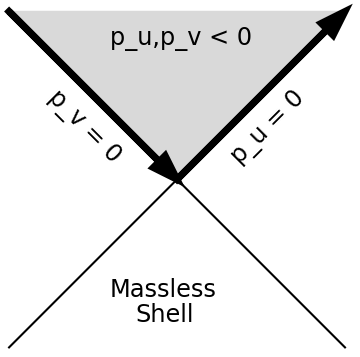
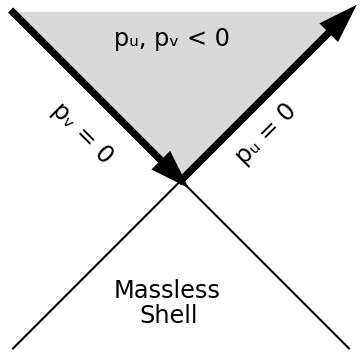
Added massless shell figure

diff --git a/thrust.tex b/thrust.tex
@@ -140,7 +140,7 @@ This leads to an inhomogenous Klein-Gordon equation
 \]
 \cite{beisert}. It is usually assumed that the source will only be active for some finite amount of time.  We delay ignore this issue and instead go after the general asymptotic form of our solution in Fourier space.
 
-We want to integrate $\rho$ on shell in momentum space, which for a massless source is the positive time part of the light cone.  The two positive time horizons are given by $p_u < 0$ and $p_v < 0$, see Figure \ref{masslessshell}.  Proceeding to take the Fourier transform of the function $f(u)$\footnote{WLOG since $g(v)$ is of the same form.}, $p_u$ drops to just $p$ for the time being to increase legibility.  We will continue to assume that $w_k$ and $a$ are positive. Let
+We want to integrate $\rho$ on shell in momentum space, which for a massless source is the positive time part of the light cone.  The two positive time horizons border $p_u <= 0$ and $p_v <= 0$, see Figure \ref{masslessshell}.  Proceeding to take the Fourier transform of the function $f(u)$\footnote{WLOG since $g(v)$ is of the same form.}, $p_u$ drops to just $p$ for the time being to increase legibility.  We will continue to assume that $w_k$ and $a$ are positive. Let
 \[
   A = e^{-i p u} (au)^\frac{i\omega_k}{a} du
 \]

diff --git a/plots.py b/plots.py
@@ -1,6 +1,10 @@
 import pylab
 pylab.axes().set_aspect('equal')
 
+sub_u = 'ᵤ'
+sub_v = 'ᵥ' 
+
+
 # Momentum space
 pylab.fill([0,1,-1],[0,1,1],color = (0.85,0.85,0.85))
 pylab.plot([-1,1],[-1,1],color = 'black')
@@ -9,6 +13,6 @@ pylab.arrow(-1,1,1,-1,color = 'black', linewidth = 5, head_width = 0.1,length_in
 pylab.arrow(0,0,1,1,color = 'black', linewidth = 5, head_width = 0.1,length_includes_head = True)
 pylab.text(-0.4,-0.7,"Massless",fontsize = "xx-large")
 pylab.text(-0.25,-0.85,"Shell",fontsize = "xx-large")
-pylab.text(-0.8,0.1, 'p_v = 0',fontsize = 'xx-large', rotation = -45)
-pylab.text(0.3,0.1, 'p_u = 0',fontsize = 'xx-large', rotation = 45)
-pylab.text(-0.4,0.8, 'p_u,p_v < 0',fontsize = 'xx-large')
+pylab.text(-0.8,0.1, f'p{sub_v} = 0',fontsize = 'xx-large', rotation = -45)
+pylab.text(0.3,0.1, f'p{sub_u} = 0',fontsize = 'xx-large', rotation = 45)
+pylab.text(-0.4,0.8,f'p{sub_u}, p{sub_v} < 0',fontsize = 'xx-large')
